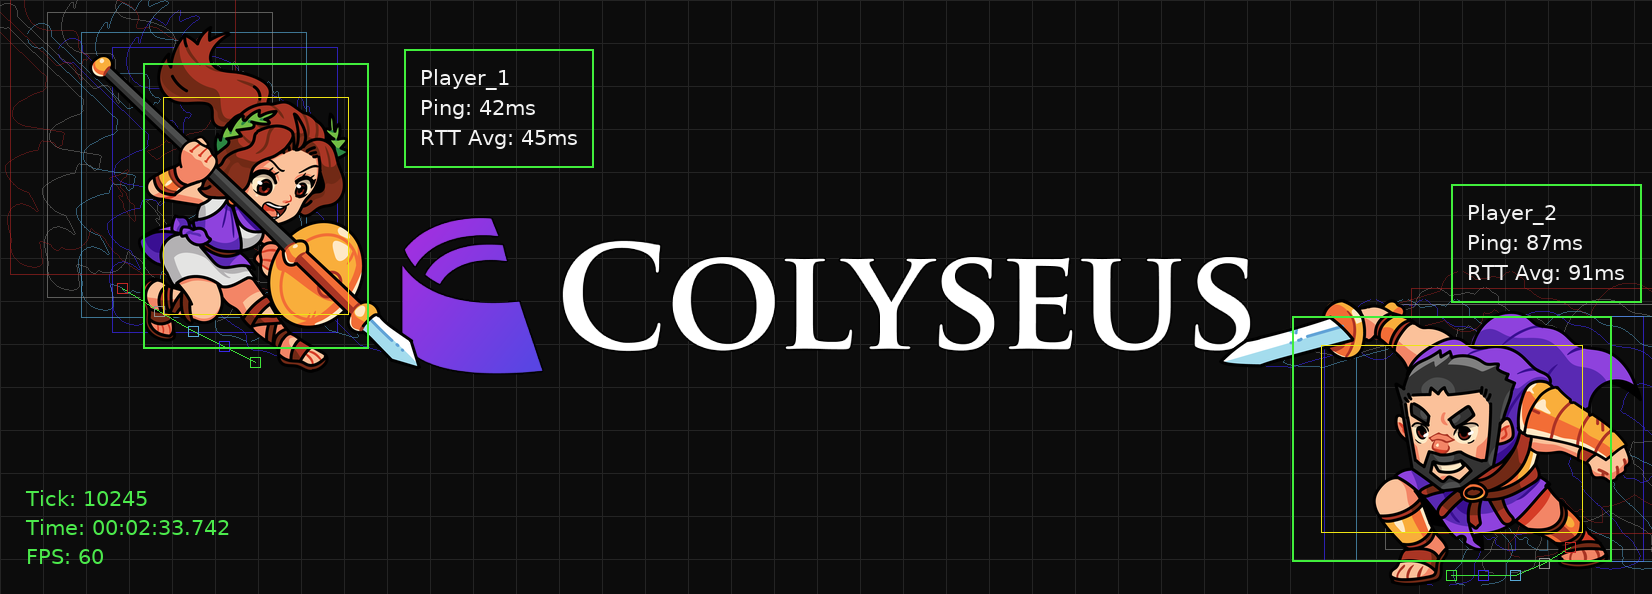
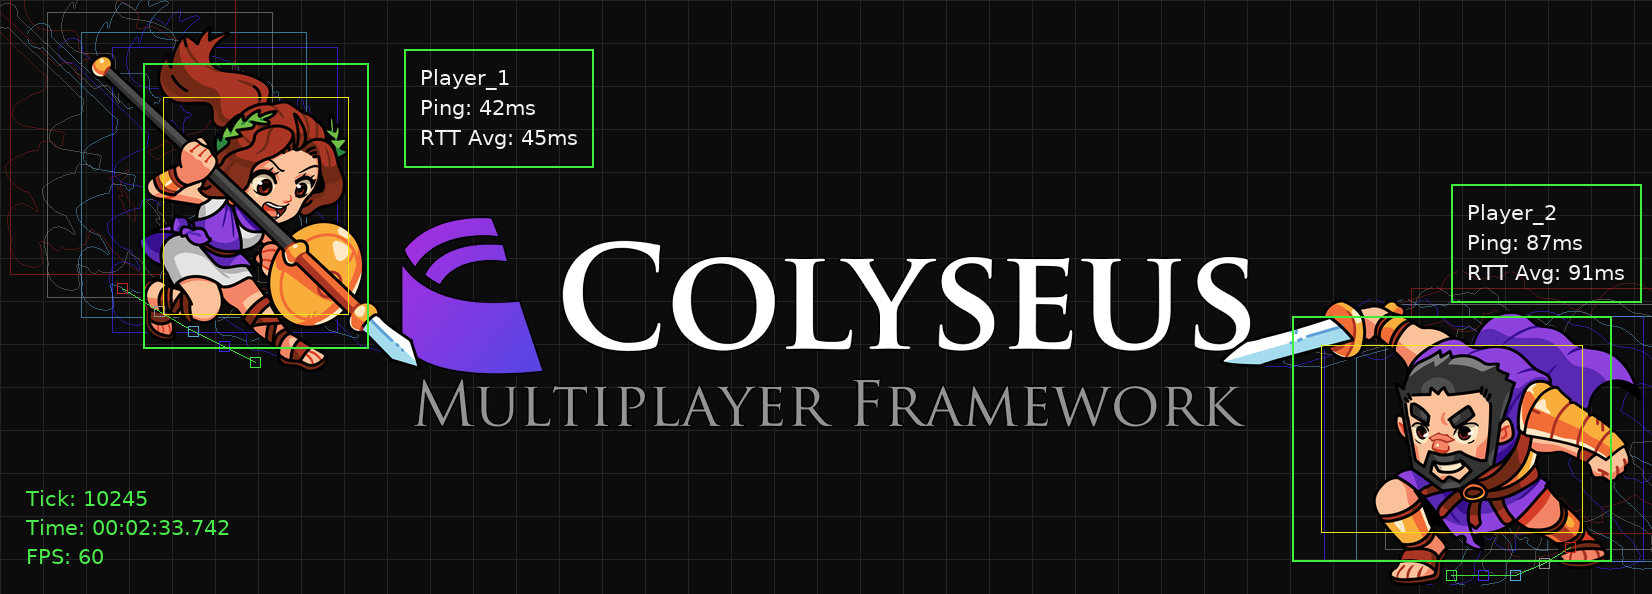
docs: put the tagline in the hero and make it the page h1
The hero now carries "Multiplayer Framework" under the wordmark, as the social
card already did, which left the text h1 repeating what the artwork says.
Wrapping the image in the h1 keeps the heading text in the alt rather than
hiding it with CSS, which Google discounts, and priority stops the LCP element
from being lazy-loaded.

The markdown twins had no rule for a raw heading tag. h1-h6 now convert, and an
image-only heading resolves to its alt.

Assisted-by: Claude Opus 5

Changed region(s): [[0.247, 0.6364, 0.7718, 0.7273]]

diff --git a/scripts/lib/mdx-to-md.js b/scripts/lib/mdx-to-md.js
@@ -349,6 +349,15 @@ function renderNode(node, ctx) {
         case 'FileTree': return '```\n' + renderFileTree(node) + '\n```'
         case 'FileTree.Folder': case 'FileTree.File': return ''
 
+        case 'h1': case 'h2': case 'h3': case 'h4': case 'h5': case 'h6': {
+            // A heading holding nothing but an image (the homepage hero) carries its text
+            // in the alt, which is how a crawler reads it too.
+            const img = node.children.find((c) => c.tag === 'img' || c.tag === 'Image')
+            const text = img && !node.children.some((c) => c.text?.trim())
+                ? inline(attr(img.attrs, 'alt') || '')
+                : inline(body(node, ctx))
+            return text ? `${'#'.repeat(Number(tag[1]))} ${text}` : ''
+        }
         case 'summary': return `**${inline(body(node, ctx))}**`
         case 'figcaption': return `*${inline(body(node, ctx))}*`
         case 'code': return `\`${inline(body(node, ctx))}\``
